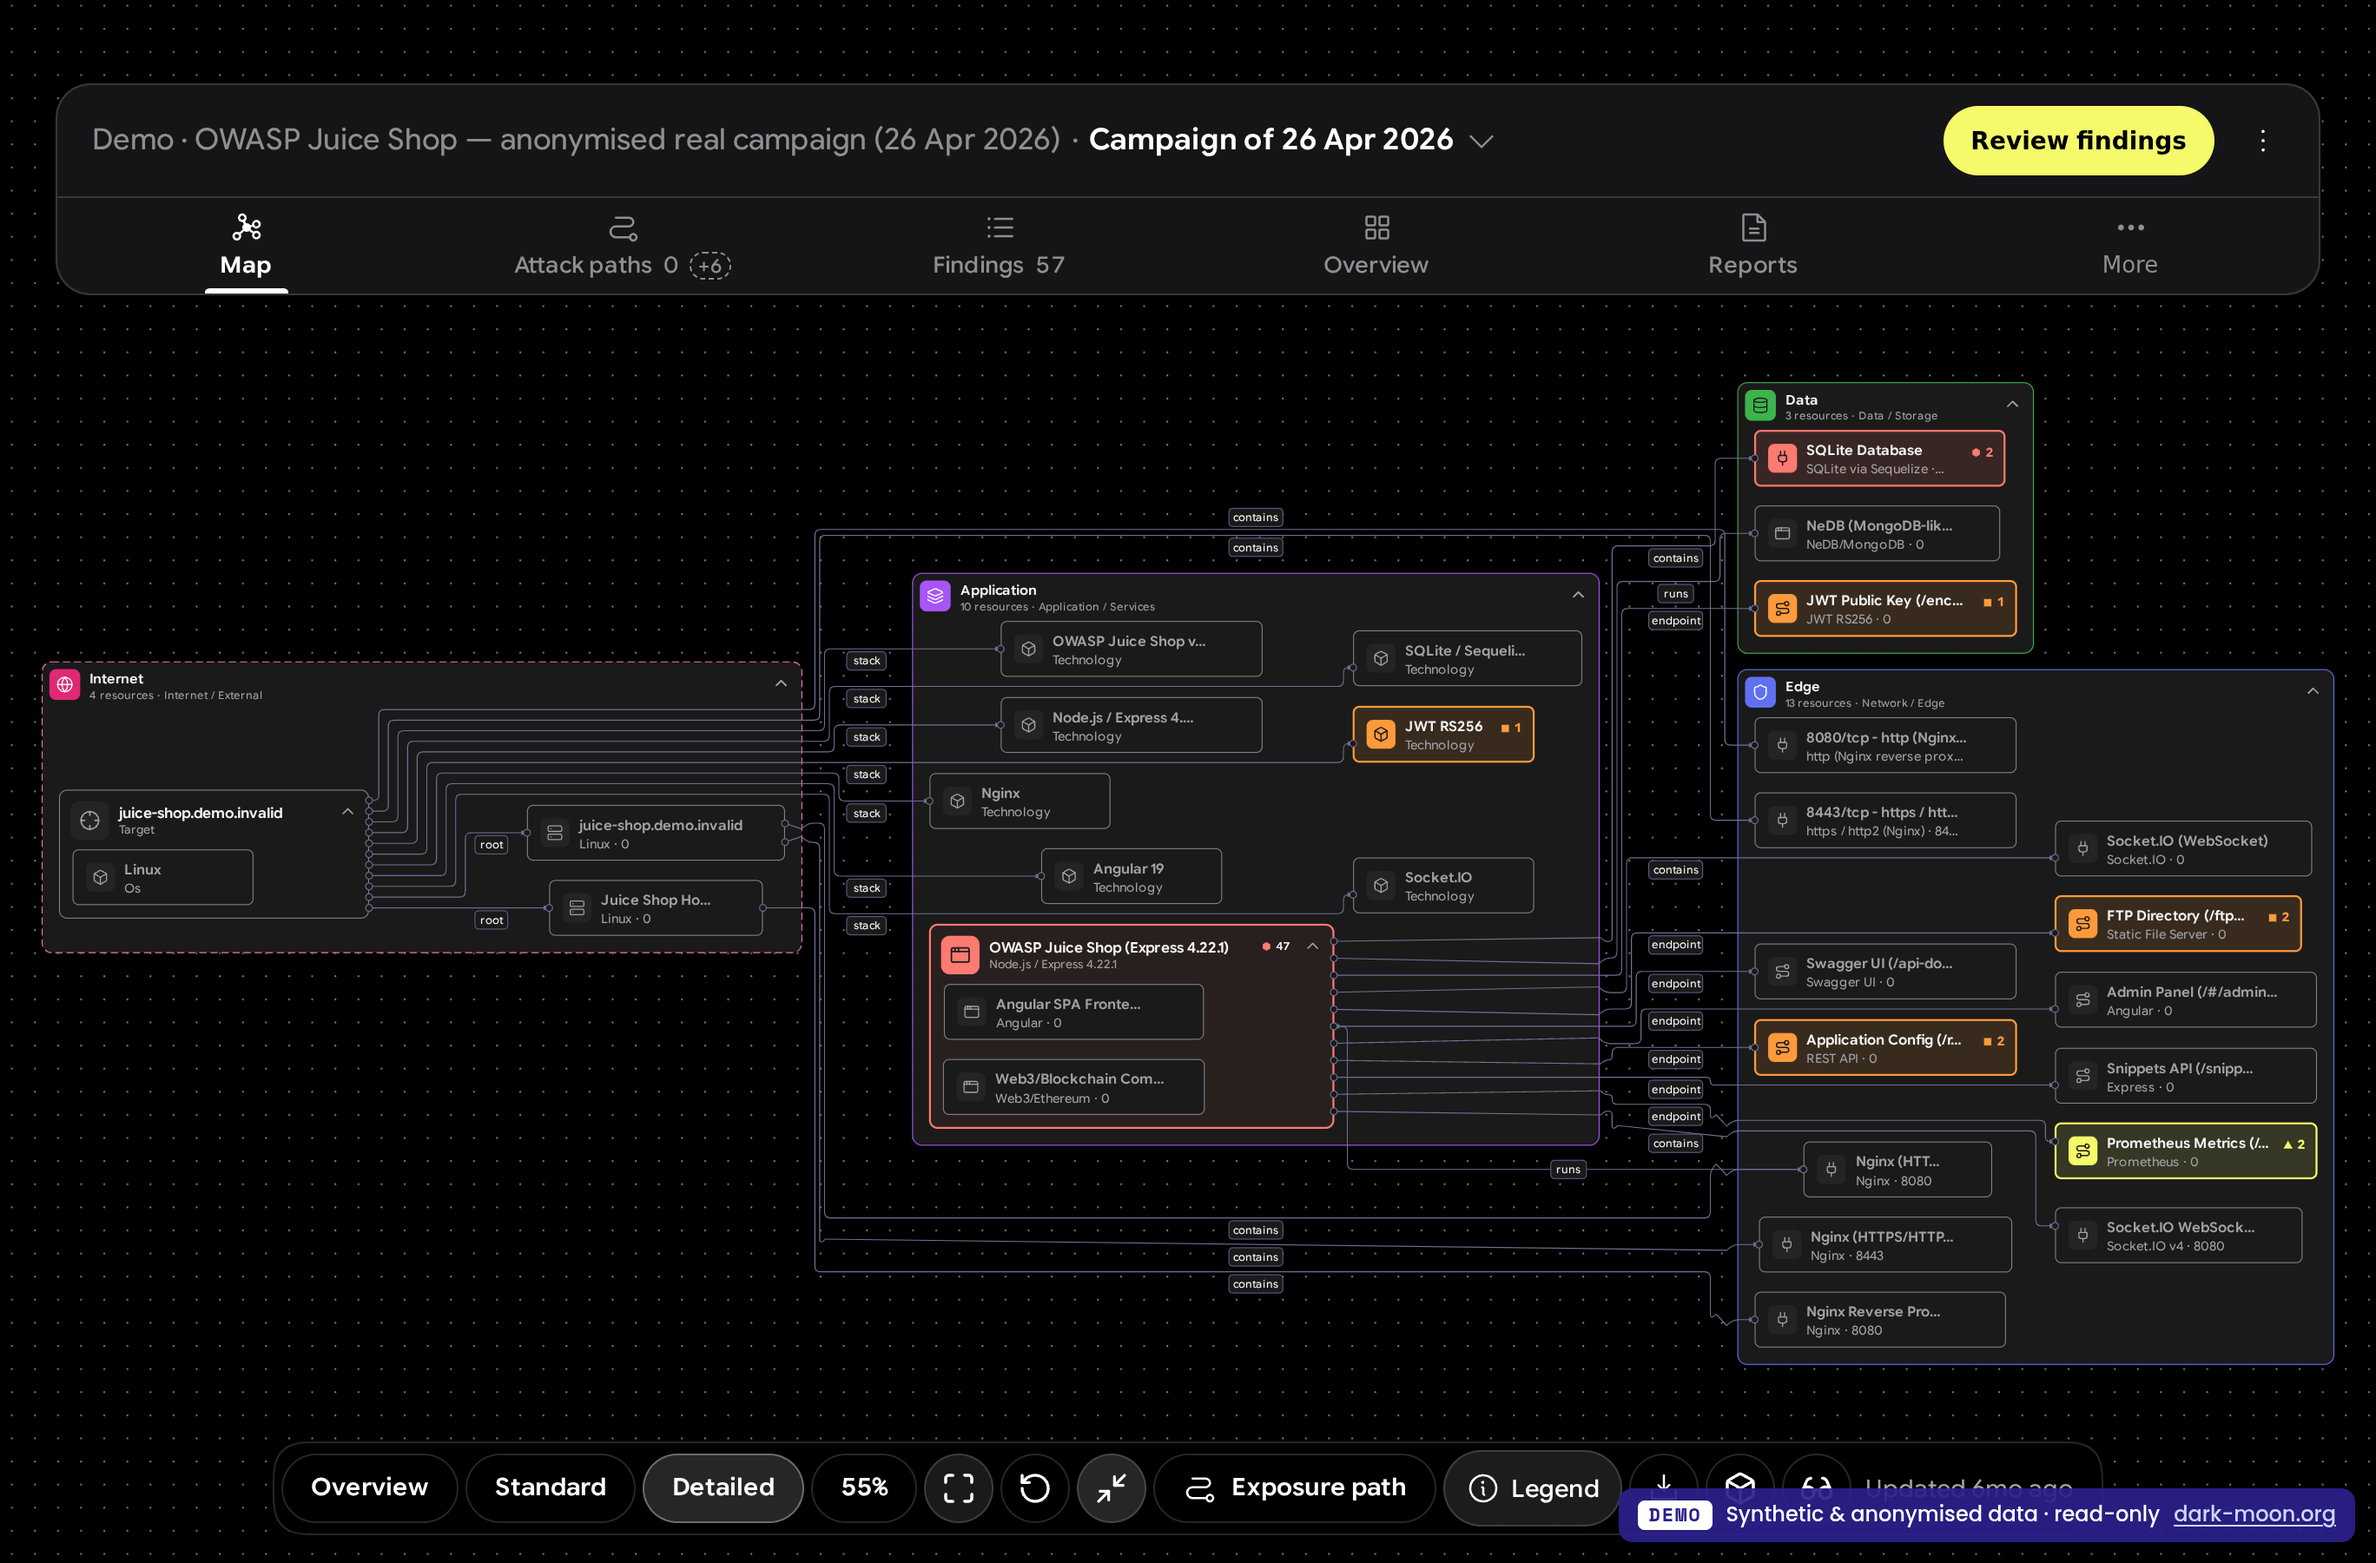
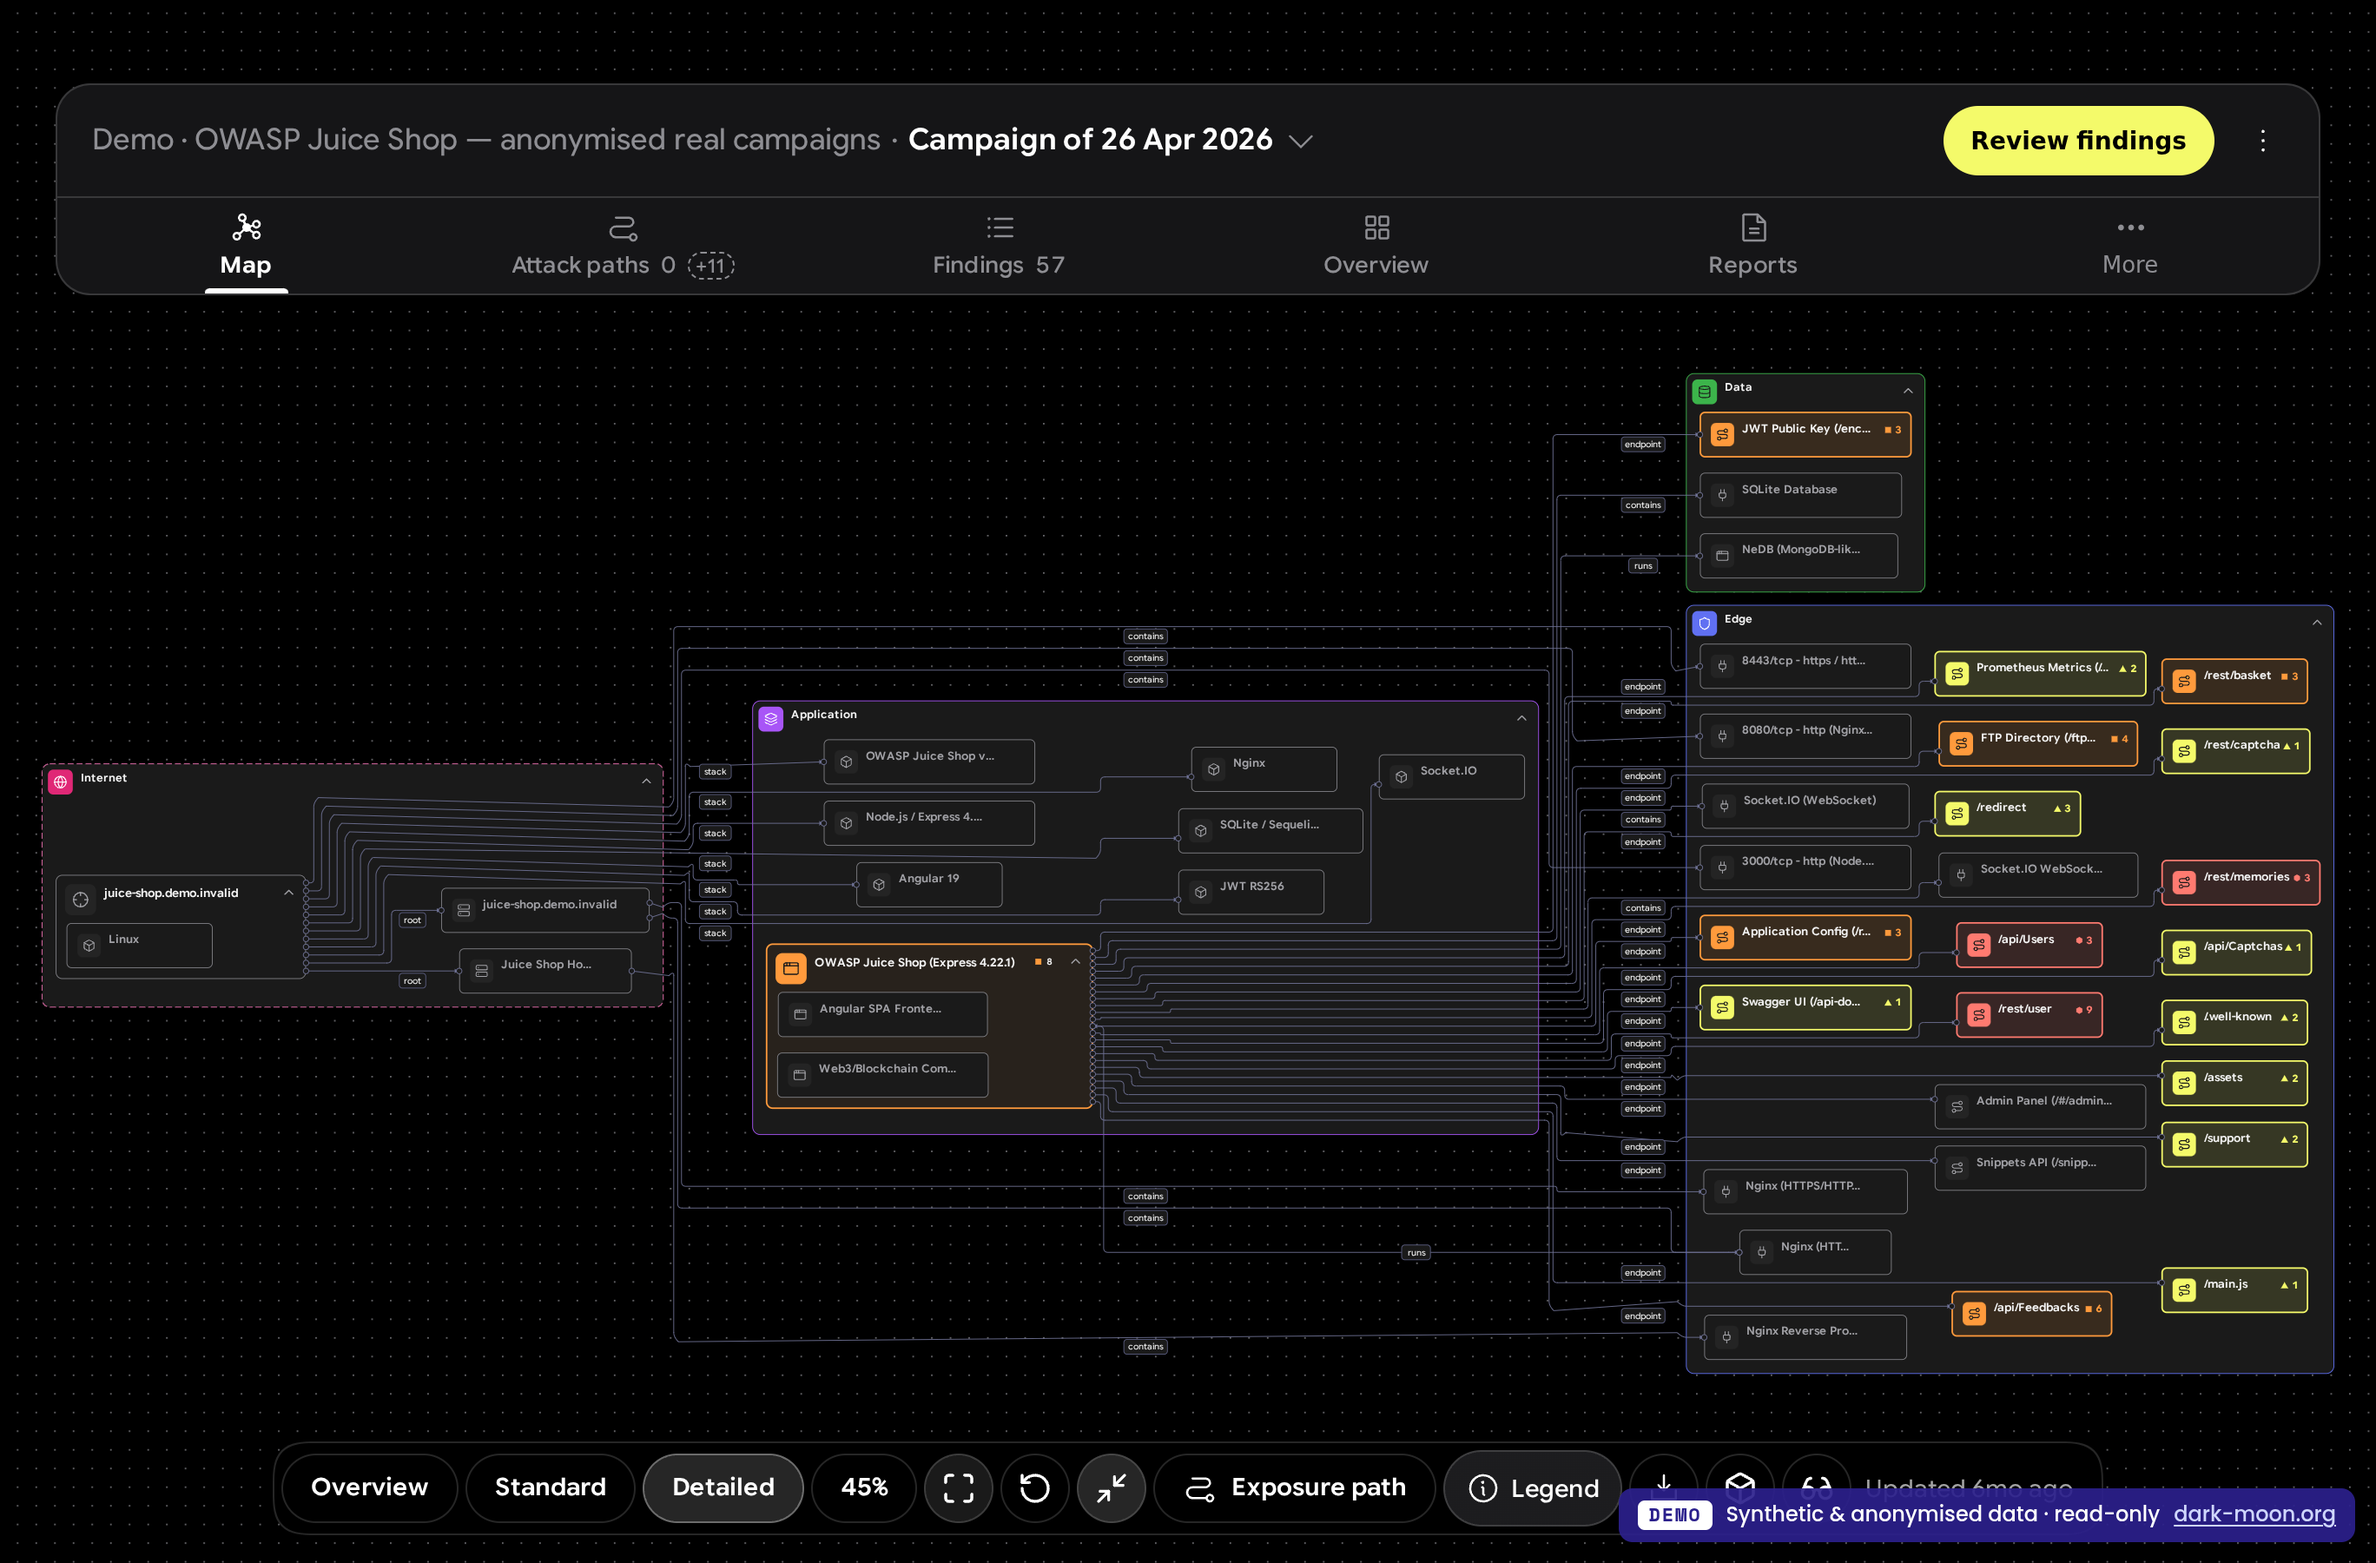
docs(readme): Juice Shop campaign map, orbital and attack-path captures with the current project name (#74) [skip ci]
Captures retaken on the current demo; alts and map caption give what they show (43 assets, 8 findings on the app, eleven inferred paths).

diff --git a/README.md b/README.md
@@ -182,17 +182,17 @@ The screenshots below are the **paid Darkmoon Pro** web dashboard. They are **no
 <table>
 <tr>
 <td colspan="2" valign="top">
-<img src="docs/pics/pro/campaign-map.png" alt="Darkmoon Pro campaign map of the anonymised OWASP Juice Shop campaign: Internet, Edge, Application and Data zones holding 30 assets (target host, open ports, technologies, endpoints, databases), edges labelled contains, stack, endpoint, runs and root, and per-asset finding counts with the Juice Shop Express application carrying 47 findings" />
-<p align="center"><b>Pro: campaign map.</b> Every asset the agents found, placed in its zone (Internet, Edge, Application, Data) and wired with labelled edges (<code>contains</code>, <code>stack</code>, <code>endpoint</code>, <code>runs</code>, <code>root</code>), with the finding count on each asset. Shown here: an anonymised real OWASP Juice Shop campaign, 30 assets and 57 findings.</p>
+<img src="docs/pics/pro/campaign-map.png" alt="Darkmoon Pro campaign map of the anonymised OWASP Juice Shop campaign: Internet, Edge, Application and Data zones holding 43 assets (target host, open ports, technologies, API routes and endpoints, databases), edges labelled contains, stack, endpoint, runs and root, and per-asset finding counts with the Juice Shop Express application carrying 8 findings" />
+<p align="center"><b>Pro: campaign map.</b> Every asset the agents found, placed in its zone (Internet, Edge, Application, Data) and wired with labelled edges (<code>contains</code>, <code>stack</code>, <code>endpoint</code>, <code>runs</code>, <code>root</code>), with the finding count on each asset. Shown here: an anonymised real OWASP Juice Shop campaign, 43 assets and 57 findings.</p>
 </td>
 </tr>
 <tr>
 <td width="50%" valign="top">
-<img src="docs/pics/pro/infra-orbital.png" alt="Darkmoon Pro orbital 3D infrastructure map of the OWASP Juice Shop campaign: assets on Internet and Edge, Application and Data rings, with Prometheus Metrics, FTP Directory, SQLite Database, the Juice Shop Express application with 47 findings, JWT Public Key, JWT RS256 and Application Config labelled with their finding counts, and the list of six inferred attack paths in the side rail" />
+<img src="docs/pics/pro/infra-orbital.png" alt="Darkmoon Pro orbital 3D infrastructure map of the OWASP Juice Shop campaign: assets on Internet and Edge, Application and Data rings, with API routes such as /rest/user, /api/Users and /api/Feedbacks, Prometheus Metrics, FTP Directory, Swagger UI, JWT Public Key, Application Config and the Juice Shop Express application with 8 findings labelled with their finding counts, and the list of eleven inferred attack paths and 43 assets in the side rail" />
 <p align="center"><b>Pro: orbital 3D infrastructure map.</b> The same campaign as a three.js scene: assets on Internet / Edge, Application and Data rings, the assets that carry findings labelled with their counts, and the attack paths in the side rail. Renders in the browser and in VR.</p>
 </td>
 <td width="50%" valign="top">
-<img src="docs/pics/pro/attack-paths.png" alt="Darkmoon Pro attack paths view of the OWASP Juice Shop campaign: six possible attack paths marked Inferred in the side rail, an explanation that no path could be proven from the evidence, and the first inferred path drawn as a dashed two-step route on the zoned map" />
+<img src="docs/pics/pro/attack-paths.png" alt="Darkmoon Pro attack paths view of the OWASP Juice Shop campaign: eleven possible attack paths marked Inferred in the side rail, an explanation that no path could be proven from the evidence, and the first inferred path drawn as a dashed three-step route on the zoned map" />
 <p align="center"><b>Pro: attack paths.</b> Paths are labelled by provenance: proven paths come from chained evidence, possible paths are inferred from topology and confirmed findings and are marked <code>Inferred</code>, never shown as proof. The selected path is drawn step by step on the map.</p>
 </td>
 </tr>
